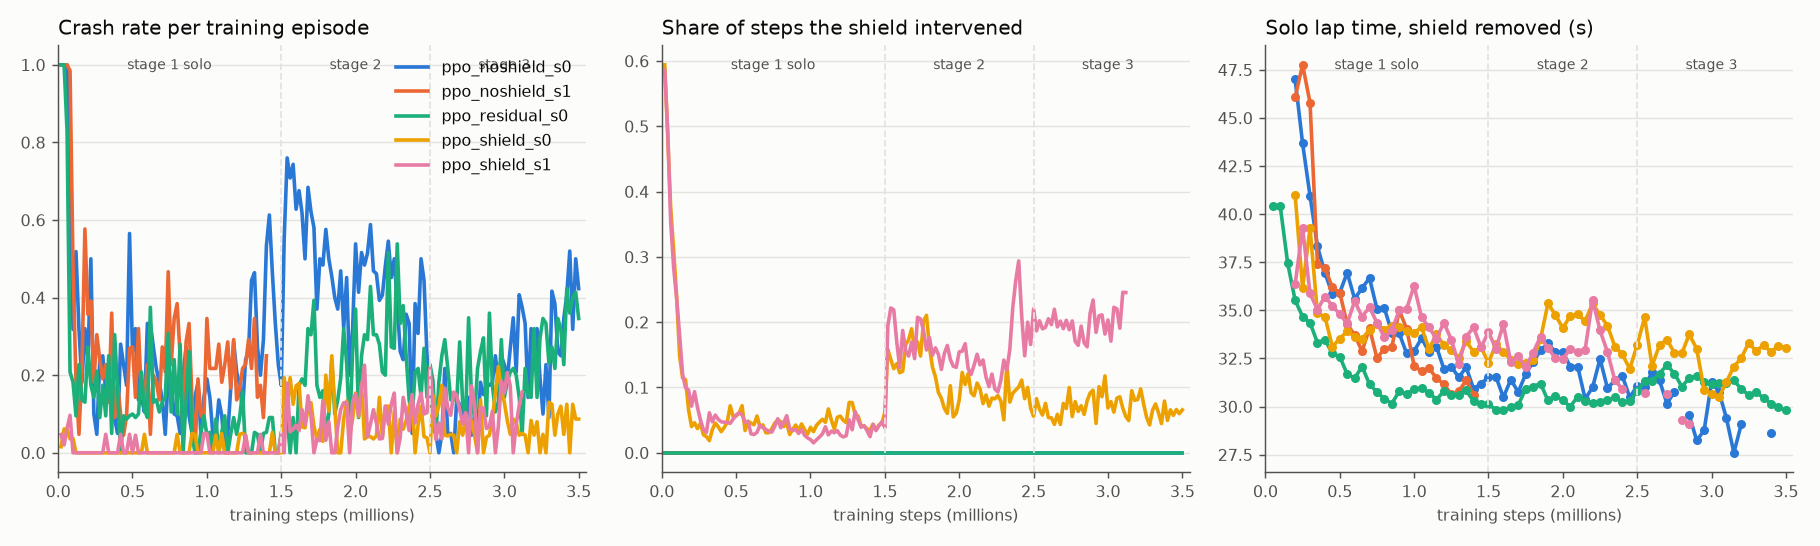
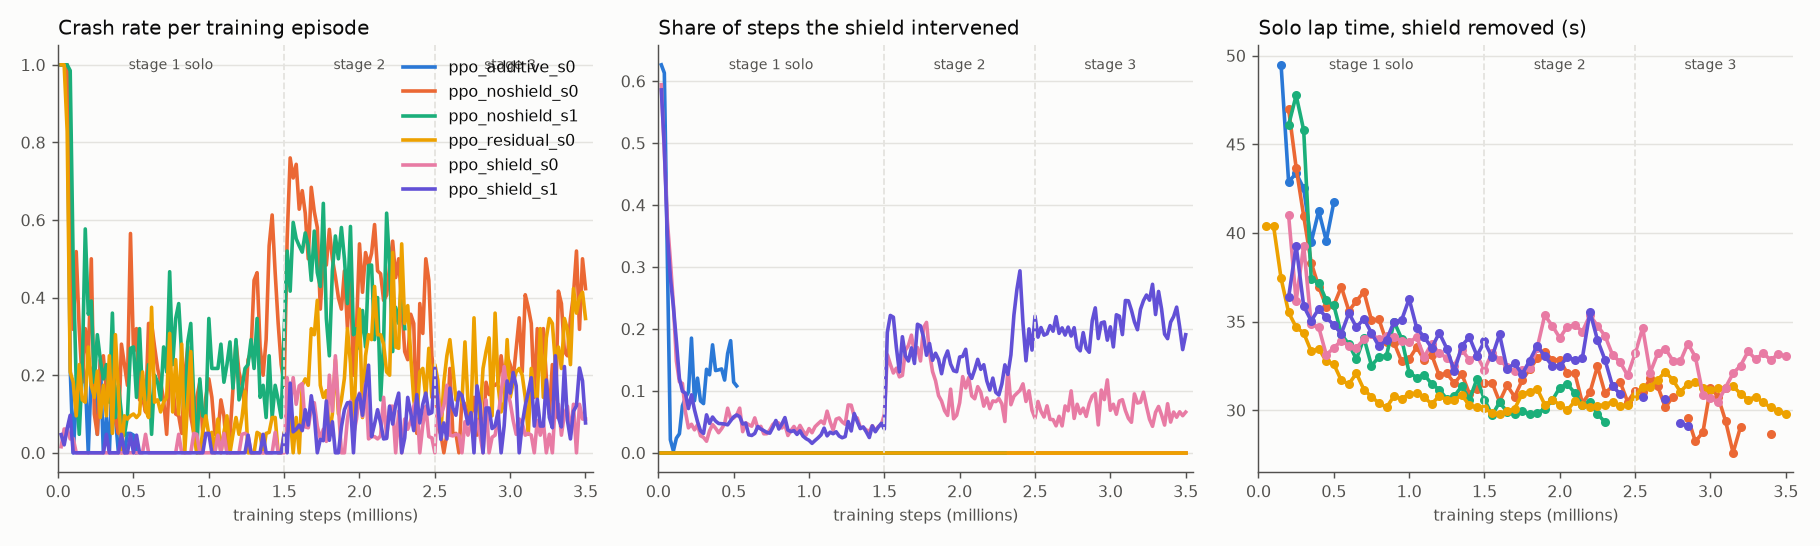
Auto-sync training progress (15:54)

diff --git a/RUNS.md b/RUNS.md
@@ -1,14 +1,14 @@
 # Run registry
 
-Auto-generated by `python -m scripts.update_registry` (2026-11-04 15:49). Each run directory `runs/<run>/` holds `args.json`, `run_info.json` (git commit, command, status), `train_log.csv` (every ~20k steps), `eval_log.csv` (solo laps with/without shield every 50k steps), `model_stage*.zip` + `vecnorm_stage*.pkl` (checkpoint after each curriculum stage). TensorBoard logs (`runs/*/tb`) stay local.
+Auto-generated by `python -m scripts.update_registry` (2026-11-04 15:54). Each run directory `runs/<run>/` holds `args.json`, `run_info.json` (git commit, command, status), `train_log.csv` (every ~20k steps), `eval_log.csv` (solo laps with/without shield every 50k steps), `model_stage*.zip` + `vecnorm_stage*.pkl` (checkpoint after each curriculum stage). TensorBoard logs (`runs/*/tb`) stay local.
 
 ## Training runs
 
 | run | purpose | config | commit | status | steps | train crash rate (stage 1/2/3) | first clean lap, shield removed | best / last solo lap, shield removed (s) | shield active (last 100k) | checkpoints |
 |---|---|---|---|---|---|---|---|---|---|---|
-| `ppo_additive_s0` | Proposal's original shield: PPO + additive Eq. 2/3 APF (fixed reach) | shield=additive seed=0 tyre=saturated | `a2a2a8e` | running | 0.22M | 37% / - / - | 150k | 42.88 / 42.88 | 10% | - |
+| `ppo_additive_s0` | Proposal's original shield: PPO + additive Eq. 2/3 APF (fixed reach) | shield=additive seed=0 tyre=saturated | `a2a2a8e` | running | 0.52M | 20% / - / - | 150k | 39.48 / 41.72 | 14% | - |
 | `ppo_noshield_s0` | Ablation: PPO, shield off in every stage | shield=off seed=0 tyre=saturated | `afc94c8 +dirty` | finished | 3.50M | 25% / 46% / 21% | 200k | 27.60 / 28.64 | 0% | stage1, stage2, stage3 |
-| `ppo_noshield_s1` | Ablation (no shield), seed 1 | shield=off seed=1 tyre=saturated | `b3af79a` | running | 2.08M | 26% / 46% / - | 200k | 29.72 / 31.48 | 0% | stage1 |
+| `ppo_noshield_s1` | Ablation (no shield), seed 1 | shield=off seed=1 tyre=saturated | `b3af79a` | running | 2.30M | 26% / 43% / - | 200k | 29.32 / 29.32 | 0% | stage1 |
 | `ppo_residual_s0` | ResRace/RaceMOP-style: PPO residual on top of PID+APF (APF shapes every command) | shield=off residual seed=0 tyre=saturated | `5549760` | finished | 3.50M | 14% / 22% / 22% | 50k | 29.80 / 29.80 | 0% | stage1, stage2, stage3 |
 | `ppo_shield_s0` | Ours: PPO + action-conditioned APF shield with fallback (grip reach), all stages | shield=cond_fb_grip seed=0 tyre=saturated | `afc94c8 +dirty` | finished | 3.50M | 1% / 9% / 7% | 200k | 30.48 / 33.04 | 6% | stage1, stage2, stage3 |
 | `ppo_shield_s1` | Ours, seed 1 | shield=cond_fb_grip seed=1 tyre=saturated | `0152028` | finished | 3.50M | 1% / 9% / 11% | 200k | 29.12 / 29.12 | 20% | stage1, stage2, stage3 |
